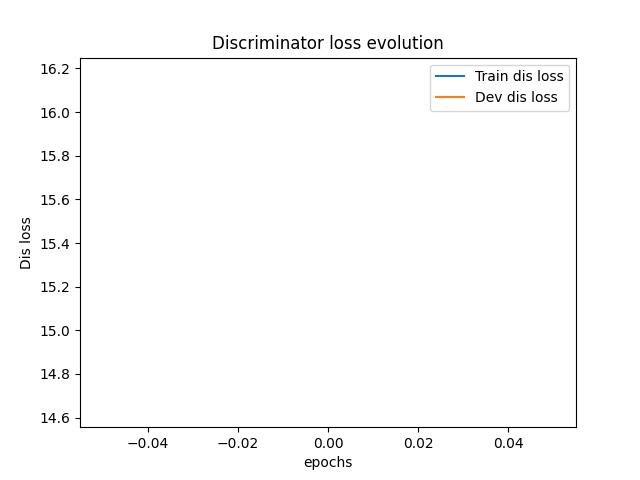
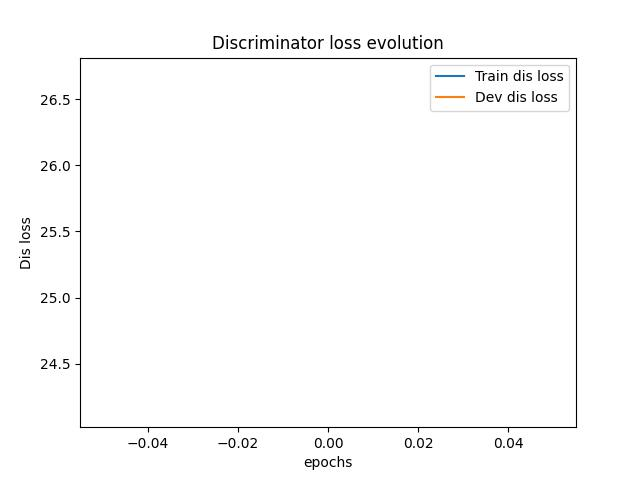
添加归一化

diff --git a/main.py b/main.py
@@ -90,7 +90,7 @@ if __name__ == "__main__":
                         help='Name of .pth file for d_net to be loaded')
     parser.add_argument('--r_load_path', '-rlp', type=str, default='r_net.pth',
                         help='Name of .pth file for r_net to be loaded')
-    parser.add_argument('--batch_size', type=int, default=4,
+    parser.add_argument('--batch_size', type=int, default=16,
                         help='Batch size for data loader')
     parser.add_argument('--rec_bound', type=float, default=0.1,
                         help='Upper bound of reconstruction loss')

diff --git a/TrajectoriesDataSet.py b/TrajectoriesDataSet.py
@@ -50,6 +50,8 @@ class TrajectoryDataset(torch.utils.data.Dataset):
 
         cvimg = cv2.resize(cvimg, dsize=(64, 64))
 
+        cvimg = cv2.normalize(cvimg, 0, 1, norm_type=cv2.NORM_MINMAX)
+
         cvimg = np.array(cvimg, dtype=np.float32).transpose([2, 0, 1])
 
         return cvimg
